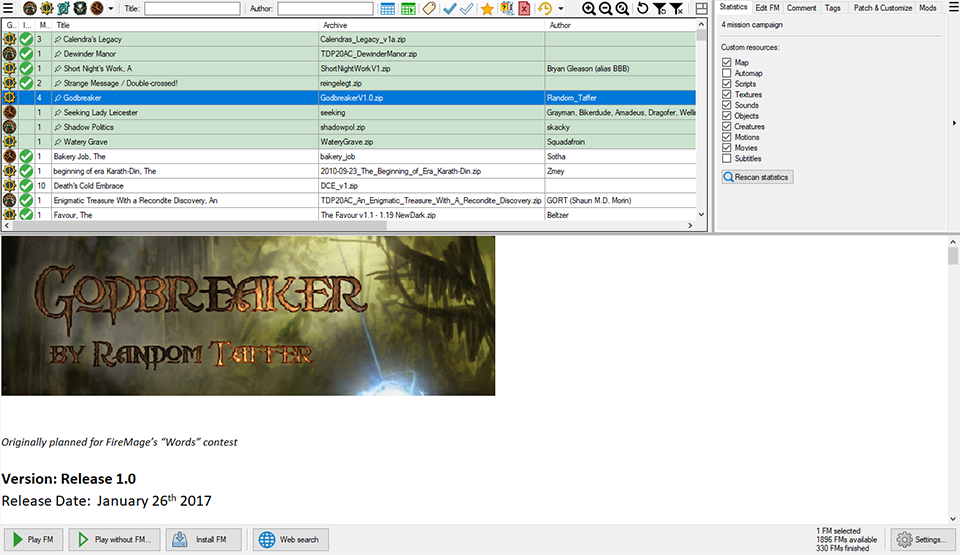
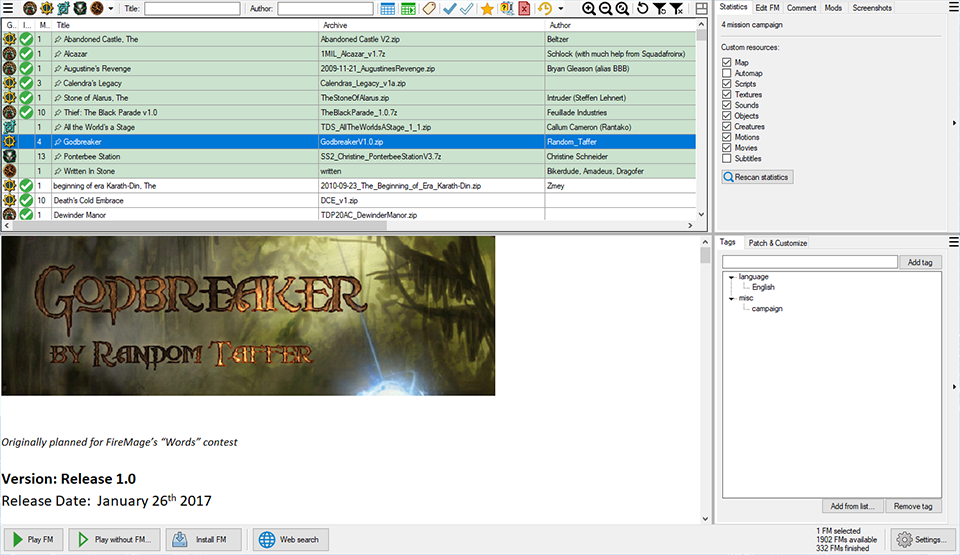
Update doc

diff --git a/docs/doc/English/AngelLoader documentation.html b/docs/doc/English/AngelLoader documentation.html
@@ -133,7 +133,7 @@ If you've specified game executables for Thief 1, Thief 2, Thief: Deadly Shadows
 If you've only specified a Dark Mod game executable, then this path is not used or required.
 
 <h4>FM archive paths</h4>
-Here you can set the directory or directories where your fan mission archives (.zip or .7z files) are located. If you enable "Include subfolders", then all subfolders inside all directories you specify will also be searched for FM archives (this matches NewDarkLoader's behavior). Otherwise, only the exact directories you specify will be searched.
+Here you can set the directory or directories where your fan mission archives (.zip, .7z, or .rar files) are located. If you enable "Include subfolders", then all subfolders inside all directories you specify will also be searched for FM archives (this matches NewDarkLoader's behavior). Otherwise, only the exact directories you specify will be searched.
 A note on fan mission archive directories: Because multiple directories are allowed, there is the potential for duplicate files. In this case, AngelLoader will simply use the first file it finds, and ignore any further files with the same name. It is recommended that you don't put duplicate files in your archive directories, but if you do, then as long as they're exact copies (ie., not different files with the same name) then it will be fine. It's also recommended that your archive directories should <b>only</b> contain fan missions and/or FMSel/NewDarkLoader backup files. While AngelLoader does attempt to reject non-mission archives on scan, it's still best to keep unrelated files out of your FM directories.
 
 <hr>
@@ -203,7 +203,7 @@ Clears all filters.
 Resets the main window to its default proportions.
 
 <h4>Draggable splitters</h4>
-You can drag these horizontally or vertically to resize the sections of the window. If you drag at the corner between the two splitters, you can resize all three main sections at once.
+You can drag these horizontally or vertically to resize the sections of the window. If you drag at the corner between two splitters, you can resize them both at once.
 
 <hr>
 
@@ -406,11 +406,11 @@ Click this to search the web for the selected mission. You can set the search UR
 <p/>
 <hr>
 
-<h3><a id="fm_details"></a>FM details area</h3>
+<h3><a id="fm_details"></a>FM tabs</h3>
 
-This section allows you to edit the selected FM's data and to view more detailed information about it. The tabs can be dragged to change their order if you wish, and they can also be selectively hidden using the menu button at the top-right.
+These tabs allow you to edit the selected FM's data and to view more detailed information about it. The tabs can be dragged to change their order, and they can also be selectively hidden using the menu button. They can also be dragged between the top and bottom sections.
 <p/>
-Information can only be displayed for one FM at a time, so when multiple FMs are selected, this section will be disabled.
+Information can only be displayed for one FM at a time, so when multiple FMs are selected, these tabs will be disabled.
 
 <h4>Collapse / expand button</h4>
 Click this to collapse (hide) the FM details section. Click it again to expand it.
@@ -493,6 +493,16 @@ There are some mods that are vital to the normal functioning of an up-to-date Th
 
 <h4>Enable all / Disable all buttons</h4>
 The <b>Enable all</b> button will enable all mods, including those marked "important". The <b>Disable all</b> button will disable all mods that are <b>not</b> marked "important".
+
+<p/>
+
+<h4><a id="screenshots_tab"></a>Screenshots tab</h4>
+
+<p><img src="images/screenshots_tab.png" /></p>
+
+If an FM is installed and has had screenshots taken, they'll show up here. You can adjust the gamma and copy the image so you can easily paste it into other apps.
+<p/>
+<b>Note:</b> If Thief 3 has been set to use centralized saves and screenshots, then Thief 3 screenshots will not show up in this tab. This is a technical limitation.
 
 <p/>
 
